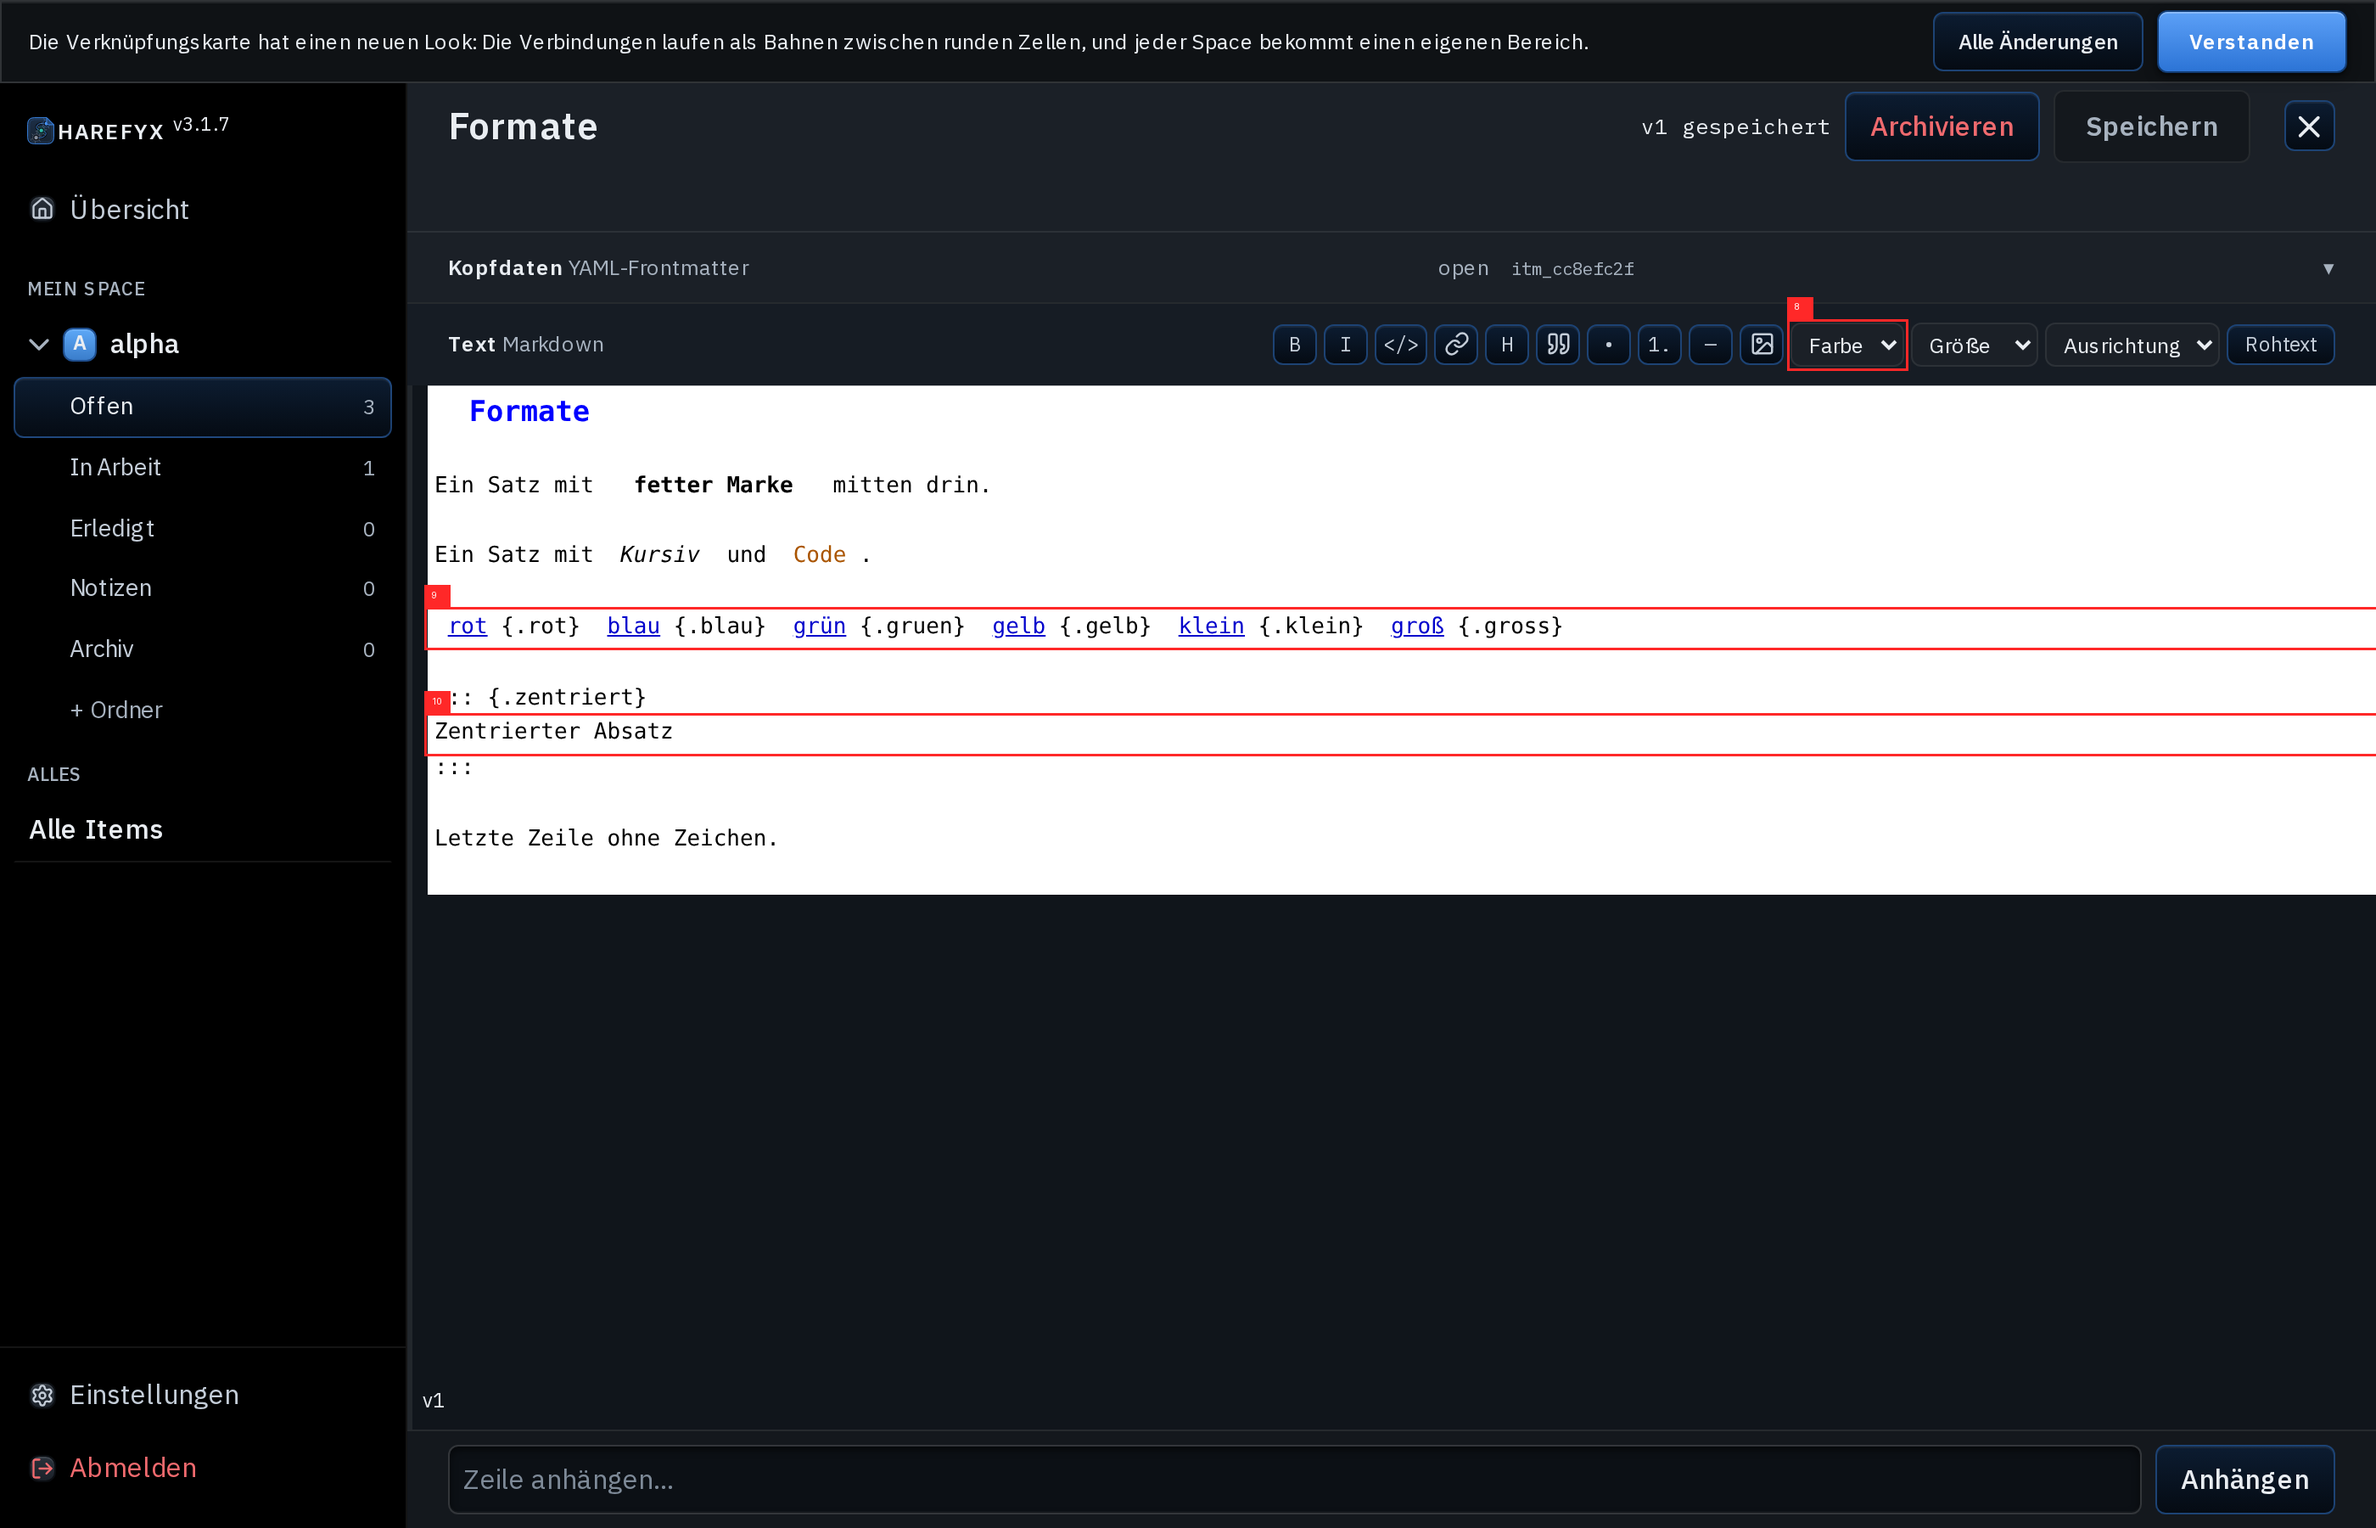
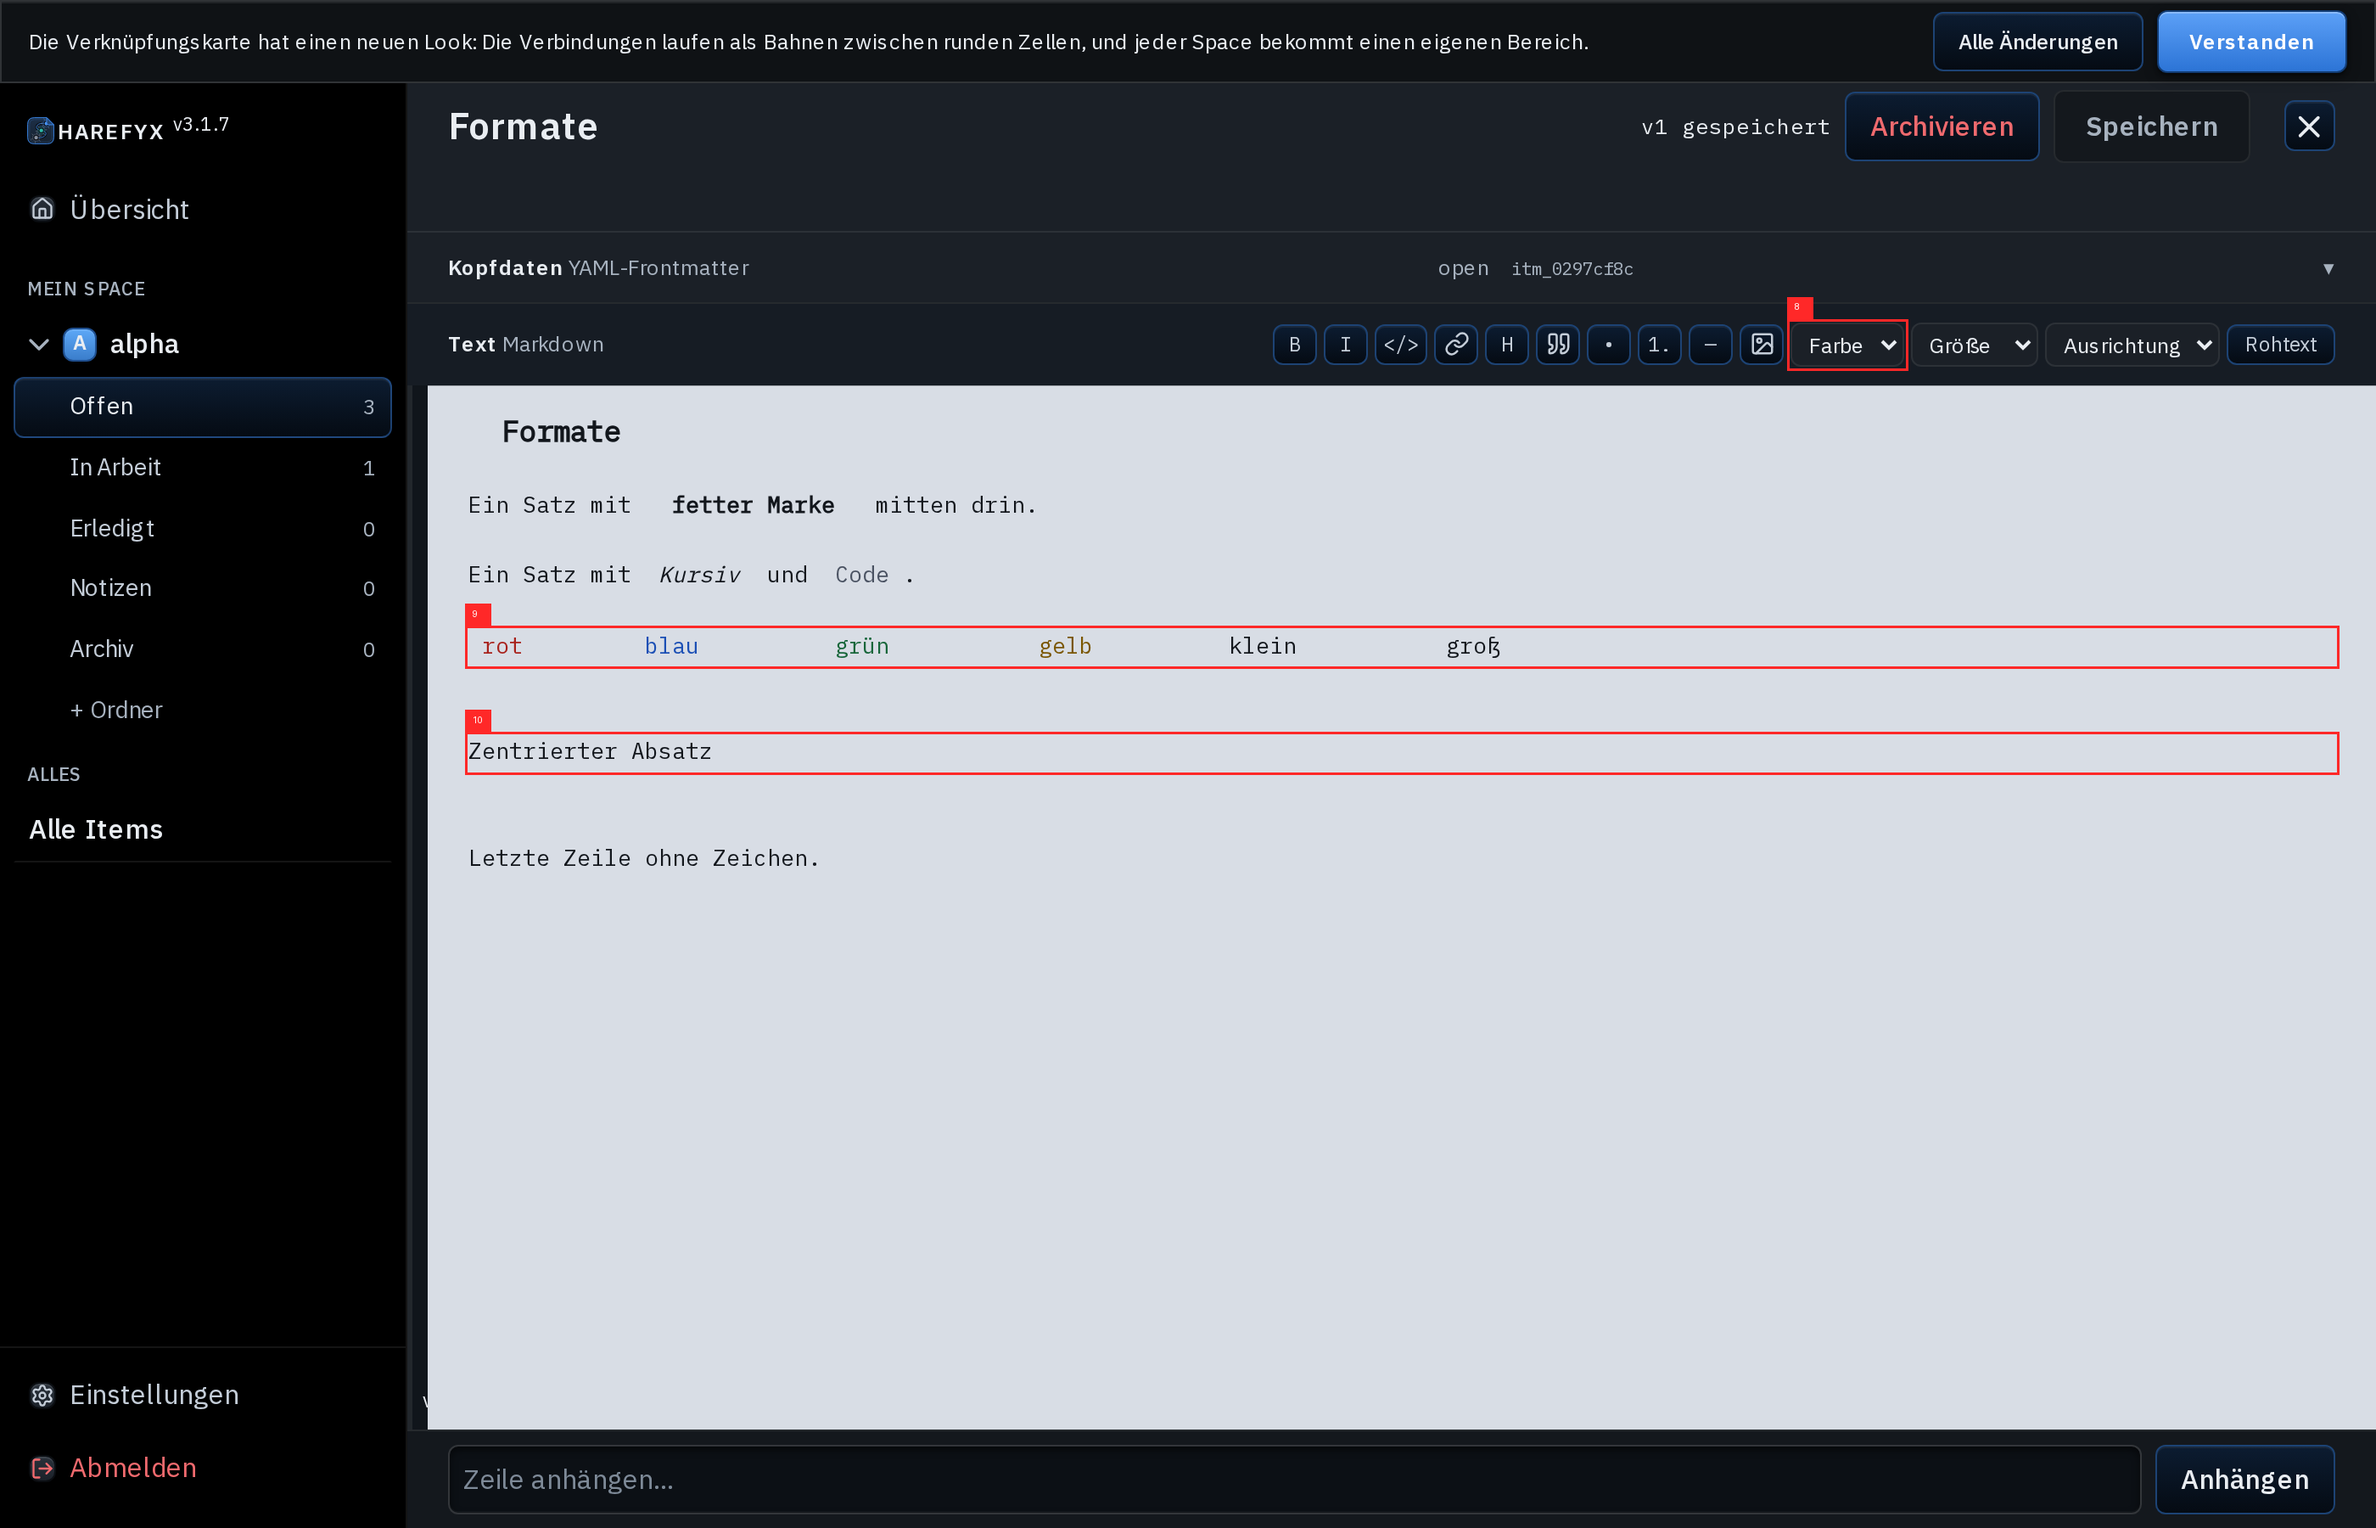
phase 10.5 Block 11 Nachzug: Editor bleibt hell und wird bewusst -- eigene Editor-Toene, Vendor-CSS vor app.css, Format-Overlay mit Farbe und ausgeblendeten Zeichen; neue Sichtungsbilder; pytest 1576 gruen

diff --git a/phase5_ui/webui/static/app.css b/phase5_ui/webui/static/app.css
@@ -65,6 +65,18 @@
      nicht — sie sind hier **neu** und aus demselben Dunkelheits-Familie abgeleitet. */
   --format-gruen:  #46B37A;
   --format-gelb:   #D9A03C;
+  /* Der Editor ist eine **helle Schreibfläche** (bewusst, 2026-10-25): auf Hell gilt Dunkel.
+   * Die UI-Töne `--text`/`--accent` sind für den dunklen Grund gemacht und würden dort
+   * verschwinden — deshalb eigene Töne, alle ≥ 4,5:1 auf `--editor-bg`. */
+  --editor-bg:     #D8DDE5;
+  --editor-text:   #12161C;
+  --editor-faint:  #4A5262;
+  --editor-select: #B7C6E4;
+  --editor-link:   #1B4FB5;
+  --editor-rot:    #A8211B;
+  --editor-blau:   #1B4FB5;
+  --editor-gruen:  #17663A;
+  --editor-gelb:   #7A5600;
 
   --warn:          #E5A93C;   /* Konflikt */
   --danger:        #E5484D;   /* Widerruf, Archivieren */
@@ -1961,20 +1973,20 @@ select.input:focus {
   flex: 1;
   min-width: 0;
   height: 100%;
-  background: none;
-  color: var(--text);
+  background: var(--editor-bg);
+  color: var(--editor-text);
   font-family: var(--font-mono);
   font-size: 13px;
   line-height: 1.6;
 }
 .CodeMirror-lines { padding: calc(var(--space) * 2) calc(var(--space) * 3); }
-.CodeMirror-cursor { border-left: 2px solid var(--text); }
-.CodeMirror-selected { background: var(--accent-quiet); }
-.CodeMirror-focused .CodeMirror-selected { background: var(--accent-quiet); }
+.CodeMirror-cursor { border-left: 2px solid var(--editor-text); }
+.CodeMirror-selected { background: var(--editor-select); }
+.CodeMirror-focused .CodeMirror-selected { background: var(--editor-select); }
 .CodeMirror pre.CodeMirror-line { padding: 0; }
 
 /* Die Live-Darstellung: die Markdown-Zeichen bekommen die Optik der Ausgabe. */
-.CodeMirror .cm-header { color: var(--text); font-weight: 600; }
+.CodeMirror .cm-header { color: var(--editor-text); font-weight: 600; }
 .CodeMirror .cm-header-1 { font-size: 1.3em; line-height: 1.35; }
 .CodeMirror .cm-header-2 { font-size: 1.18em; }
 .CodeMirror .cm-header-3 { font-size: 1.08em; }
@@ -1983,11 +1995,21 @@ select.input:focus {
 .CodeMirror .cm-header-6 { font-size: 1em; }
 .CodeMirror .cm-strong { font-weight: 700; }
 .CodeMirror .cm-em { font-style: italic; }
-.CodeMirror .cm-link { color: var(--accent); text-decoration: underline; }
-.CodeMirror .cm-url { color: var(--text-faint); }
-.CodeMirror .cm-quote { color: var(--text-muted); font-style: italic; }
-.CodeMirror .cm-comment { color: var(--text-faint); }
-.CodeMirror .cm-formatting { color: var(--text-faint); }
+.CodeMirror .cm-link { color: var(--editor-link); text-decoration: underline; }
+.CodeMirror .cm-url { color: var(--editor-faint); }
+.CodeMirror .cm-quote { color: var(--editor-faint); font-style: italic; }
+.CodeMirror .cm-comment { color: var(--editor-faint); }
+.CodeMirror .cm-formatting { color: var(--editor-faint); }
+/* Der Format-Overlay (ED-3): die Farbe des Textes, ohne Unterstreichung (das Markdown-
+ * Modul hält `[Text]` fuer einen Verweis; die Farbe gehört dem Format). Nach `.cm-link`,
+ * gleiche Spezifität — die spätere Regel gewinnt. */
+.CodeMirror .cm-md-c-rot { color: var(--editor-rot); text-decoration: none; }
+.CodeMirror .cm-md-c-blau { color: var(--editor-blau); text-decoration: none; }
+.CodeMirror .cm-md-c-gruen { color: var(--editor-gruen); text-decoration: none; }
+.CodeMirror .cm-md-c-gelb { color: var(--editor-gelb); text-decoration: none; }
+.CodeMirror .cm-md-plain { color: var(--editor-text); text-decoration: none; }
+/* Listen-/Aufgabentext: der Markdown-Modus faerbt ihn `variable-2` (Standard: Blau) — hier ist es Text. */
+.CodeMirror .cm-variable-2, .CodeMirror .cm-variable-3 { color: var(--editor-text); }
 
 /* Die Formatierungszeichen sind auf den **anderen** Zeilen unsichtbar (s. der Kommentar
  * oben). Die Cursorzeile traegt sie sichtbar -- dort schreibt der Mensch gerade. */

diff --git a/phase5_ui/webui/static/js/editor.js b/phase5_ui/webui/static/js/editor.js
@@ -430,15 +430,39 @@ function renderCreatedByLine(item) {
 // Der Stream gehoert dem Overlay (CM5 faehrt Overlay und Modus auf **zwei** Streams) — der
 // Zaehler `stream.pos` ist also der Overlay-eigene, nicht der des Markdown-Modus.
 function _formatOverlayToken(stream) {
+  // **Drei Stuecke**, stateless ueber Vorausschau und das Zeichen davor: `[` (Zeichen),
+  // der Text (Farbe), `]{.rot}` (Zeichen). Die **Zeichen** tragen `formatting` — dieselbe
+  // Klasse wie die Markdown-Zeichen, also blendet `app.css` sie auf den anderen Zeilen aus.
+  // Eine **unbekannte** Klasse bleibt wörtlich (kein Stueck wird erkannt). Eine Groesse
+  // allein faerbt nichts (sie wuerde die Zeilenhoehe aendern), nimmt dem Text aber die
+  // Verweis-Optik des Markdown-Modus (`md-plain`).
+  var V = FORMAT_VOKABULAR;
+  function klasse(a, b) {
+    var k = [a, b].filter(Boolean);
+    for (var n = 0; n < k.length; n++) if (!V.farben[k[n]] && !V.groessen[k[n]]) return null;
+    for (var f = 0; f < k.length; f++) if (V.farben[k[f]]) return V.farben[k[f]];
+    return k.length ? "md-plain" : null;
+  }
   var rest = stream.string.slice(stream.pos);
-  var m = /\[([^\]\n]+)\]\{\.([a-z]+)(?: \.([a-z]+))?\}/.exec(rest);
-  if (!m) { stream.skipToEnd(); return null; }
-  // Bis zur Form vorruecken — der Vorspann bleibt **unformatiert**.
-  var ziel = stream.pos + m.index;
-  while (stream.pos < ziel) stream.next();
-  var treffer = stream.match(/\[([^\]\n]+)\]\{\.([a-z]+)(?: \.([a-z]+))?\}/);
-  if (!treffer) { stream.skipToEnd(); return null; }
-  return FORMAT_VOKABULAR.farben[treffer[2]] || null;
+  var davor = stream.pos > 0 ? stream.string.charAt(stream.pos - 1) : "";
+  if (stream.sol() && /^:::/.test(rest)) { stream.skipToEnd(); return "formatting"; }
+  var m = /^\[([^\]\n]+)\]\{\.([a-z]+)(?: \.([a-z]+))?\}/.exec(rest);
+  if (m && klasse(m[2], m[3])) {
+    stream.next();                                   // das `[`
+    return "formatting";
+  }
+  var am = /^([^\]\n]+)\]\{\.([a-z]+)(?: \.([a-z]+))?\}/.exec(rest);
+  if (davor === "[" && am && klasse(am[2], am[3])) {
+    stream.pos += am[1].length;                      // der Text
+    return klasse(am[2], am[3]);
+  }
+  var zm = /^\]\{\.([a-z]+)(?: \.([a-z]+))?\}/.exec(rest);
+  if (zm && klasse(zm[1], zm[2]) && /\[[^\]\n]+$/.test(stream.string.slice(0, stream.pos))) {
+    stream.pos += zm[0].length;                      // `]{.rot}`
+    return "formatting";
+  }
+  stream.next();
+  return null;
 }
 
 // P10.5, Block 11, Schritt 11.3 (ED-1): der Live-Editor entsteht **beim Öffnen** eines

diff --git a/phase5_ui/webui/static/js/editor_cm.js b/phase5_ui/webui/static/js/editor_cm.js
@@ -76,7 +76,11 @@ function ladeCss(pfad) {
     link.setAttribute("data-cm-css", pfad);
     link.onload = function () { resolve(); };
     link.onerror = function () { reject(new Error("CSS nicht ladbar: " + pfad)); };
-    document.head.appendChild(link);
+    // **Vor** `app.css`: bei gleicher Spezifitaet gewinnt die spaetere Datei — das vendorte
+    // CSS darf unsere Regeln nicht uebertrumpfen (Befund der Sichtung, 2026-10-25).
+    var app = document.querySelector('link[rel="stylesheet"][href$="app.css"]');
+    if (app && app.parentNode) app.parentNode.insertBefore(link, app);
+    else document.head.appendChild(link);
   });
 }
 

diff --git a/docs/INDEX.md b/docs/INDEX.md
@@ -59,7 +59,7 @@ updated: 2026-10-25 (B12: DO-1/LG-6 — drei Heads und ROADMAP unter dem Softcap
 
 ## Phase 10.5 — 🔄 in Arbeit (Finishing — alle Baustellen schließen; Plan `docs/concepts/phase10_5_finishing_plan.md`)
 
-- [phase10_5_finishing/CLAUDE.md](../phase10_5_finishing/CLAUDE.md) — 📗 **22462 B** · Phase-10.5-Head: Modulstatus der Blöcke 0–12/Z, Deploy-Tabelle A–D, Abnahmestand (51 ✅ · 0 ⚠ · 10 ⬜; geschlossene Zeilen im Archiv), offene Punkte beim Nikinger, ein Session-Block (≤ 4 KiB, DO-3)
+- [phase10_5_finishing/CLAUDE.md](../phase10_5_finishing/CLAUDE.md) — 📗 **22926 B** · Phase-10.5-Head: Modulstatus der Blöcke 0–12/Z, Deploy-Tabelle A–D, Abnahmestand (51 ✅ · 0 ⚠ · 10 ⬜; geschlossene Zeilen im Archiv), offene Punkte beim Nikinger, ein Session-Block (≤ 4 KiB, DO-3)
 - [phase10_5_finishing/ABNAHME_ARCHIVE.md](../phase10_5_finishing/ABNAHME_ARCHIVE.md) — 📦 **25.331 B** · L3-Archiv der **geschlossenen** Abnahmezeilen (P10.5-1–61), verbatim aus dem Head verschoben
 - [phase10_5_finishing/SESSIONS_ARCHIVE.md](../phase10_5_finishing/SESSIONS_ARCHIVE.md) — 📦 **108.657 B** · L3-Archiv der älteren Session-Blöcke dieser Phase, verbatim, newest-first
 - [phase10_5_finishing/STARTUPTRAG_ARCHIVE.md](../phase10_5_finishing/STARTUPTRAG_ARCHIVE.md) — 📦 **14291 B** · L3-Archiv der **Startaufträge von Block 7 und Block 9** (verbatim verschoben 2026-10-23/24)

diff --git a/phase10_5_finishing/CLAUDE.md b/phase10_5_finishing/CLAUDE.md
@@ -168,7 +168,12 @@ CSS **hinter** `app.css` an, bei gleicher Spezifität gewinnt es (`.CodeMirror`,
 `.cm-link`). (B) Das **Format-Overlay färbt nichts**: `[rot]{.rot}` erscheint als blauer Link plus
 Text `{.rot}`, `app.css` kennt keine `cm-…`-Regel dazu (11.6 hatte das als „nicht gemessen“ benannt).
 (C) `::: {.zentriert}` bleibt Rohtext. Cursorzeile, To-do-Kästchen, Rohtext, UI-4 sehen richtig aus.
-**⇒ P10.5-51 bleibt ⬜, bis (A)–(C) behoben sind.**
+**Entscheidung Nikinger (2026-10-25): die Fläche bleibt hell** (leicht abgedunkelt, `--editor-bg`),
+auf Hell gilt Dunkel — eigene `--editor-*`-Töne statt der UI-Töne. **Behoben:** (A) Vendor-CSS
+wird **vor** `app.css` eingefügt, Editor-Töne ≥ 4,5:1; (B) Overlay zerlegt `[Text]{.rot}` in
+Zeichen (ausgeblendet außerhalb der Cursorzeile) und Text (Farbe); (C) `:::`-Zeilen sind
+Zeichen (Ausrichtung selbst zeigt nur die Vorschau). Suite **1576 grün**. **P10.5-51 bleibt ⬜**
+bis zur Sichtung der neuen Bilder.
 
 **Nächster Schritt.** **Block Z (Closeout)** — erst nach P10.5-27/28 live (Nikinger). Beim
 Nikinger: Deploy C `v3.1.7`, P10.5-37/32/51 (Sichtung), 22, 18, 25, 27/28, AL-1 Zeile 15, V203.
